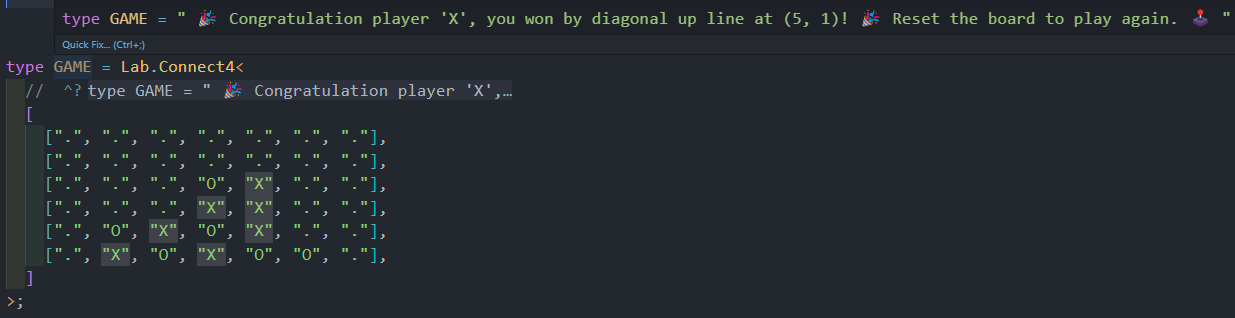
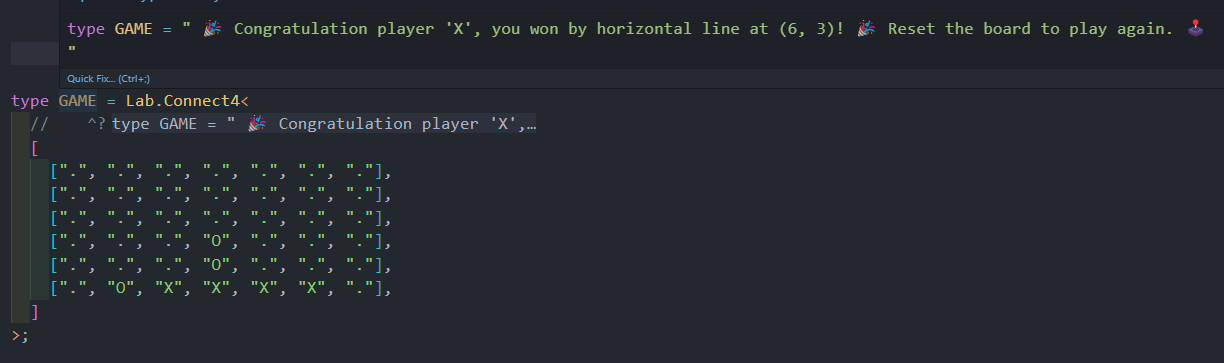
fixing jsdoc && reset connect4 game

diff --git a/src/lab/modules/connect4.ts b/src/lab/modules/connect4.ts
@@ -7,7 +7,6 @@ import type {
 	Infer2DBoardErrors,
 	Infer2DRulesErrors,
 	ReactiveBoard2D,
-	Board,
 } from "@/lab/utils/2d";
 import type { Increment } from "@/numeric";
 
@@ -99,9 +98,7 @@ export declare type Connect4<
 			? BOARD_ERROR_MESSAGE
 			: Check2DVectors<TBoard, TRules> extends infer PAYLOAD extends
 						VictoryPayload
-				? ` 🎉 Congratulation player '${PAYLOAD["player"]}', you won by ${PAYLOAD["dir"]} line at (${Increment<PAYLOAD["pos"][0]>}, ${Increment<PAYLOAD["pos"][1]>})! 🎉 Reset the board to play again. 🕹 ` & {
-						reset: Board<TRules, TRules["EMPTY_CELL"]>;
-					}
+				? ` 🎉 Congratulation player '${PAYLOAD["player"]}', you won by ${PAYLOAD["dir"]} line at (${Increment<PAYLOAD["pos"][0]>}, ${Increment<PAYLOAD["pos"][1]>})! 🎉 Reset the board to play again. 🕹 `
 				: IsBoardFull<TBoard, TRules> extends true
 					? " 🤝 It's a draw! 🤝 Reset the board to play again. 🕹 "
 					: ` 🕹 Player '${NextPlayer<TBoard, TRules>}' it's your turn. 🕹 `;

diff --git a/tests/index.ts b/tests/index.ts
@@ -29,20 +29,14 @@ declare function multiply<T1 extends number, T2 extends number>(
 const resMultiply = add(1.08, 2);
 //      ^?
 
-type GAME = Lab.TicTacToe<
+type GAME = Lab.Connect4<
 	//    ^?
 	[
-		["X", ".", "O", ".", "."],
-		[".", "X", "X", "O", "O"],
-		[".", "O", "X", "X", "."],
-		[".", ".", "X", "X", "."],
-		[".", "X", "O", "O", "O"],
-	],
-	{
-		COL: 5;
-		ROW: 5;
-		TARGET_SCORE: 4;
-		PLAYERS: ["X", "O"];
-		EMPTY_CELL: ".";
-	}
+		[".", ".", ".", ".", ".", ".", "."],
+		[".", ".", ".", ".", ".", ".", "."],
+		[".", ".", ".", ".", ".", ".", "."],
+		[".", ".", ".", "O", ".", ".", "."],
+		[".", ".", ".", "O", ".", ".", "."],
+		[".", "O", "X", "X", "X", "X", "."],
+	]
 >;
